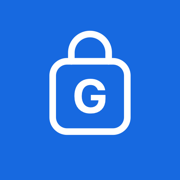
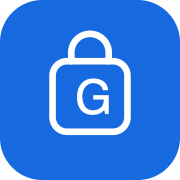
Add files via upload

diff --git a/index.html b/index.html
@@ -1,9 +1,9 @@
 <!doctype html>
-<html lang="de"><head><meta charset="utf-8"><meta http-equiv="Content-Security-Policy" content="default-src 'self'; script-src 'self'; style-src 'self' 'unsafe-inline'; connect-src 'self' https://ydmkutpcrurzsypszrob.supabase.co wss://ydmkutpcrurzsypszrob.supabase.co; img-src 'self' data:; object-src 'none'; base-uri 'self'; form-action 'self'; frame-src 'self'; worker-src 'self'"><meta name="referrer" content="no-referrer"><meta name="viewport" content="width=device-width,initial-scale=1,viewport-fit=cover"><meta name="theme-color" content="#1769e0"><meta name="description" content="Gemeinsame Einkaufslisten und Warenkatalog."><link rel="icon" href="icon.svg?v=28"><link rel="apple-touch-icon" href="icon-180.png?v=28"><link rel="manifest" href="manifest.webmanifest"><link rel="stylesheet" href="styles.css?v=28"><title>GrevingShop. – zusammen einkaufen</title></head>
+<html lang="de"><head><meta charset="utf-8"><meta http-equiv="Content-Security-Policy" content="default-src 'self'; script-src 'self'; style-src 'self' 'unsafe-inline'; connect-src 'self' https://ydmkutpcrurzsypszrob.supabase.co wss://ydmkutpcrurzsypszrob.supabase.co; img-src 'self' data:; object-src 'none'; base-uri 'self'; form-action 'self'; frame-src 'self'; worker-src 'self'"><meta name="referrer" content="no-referrer"><meta name="viewport" content="width=device-width,initial-scale=1,viewport-fit=cover"><meta name="theme-color" content="#1769e0"><meta name="description" content="Gemeinsame Einkaufslisten und Warenkatalog."><link rel="icon" href="icon.svg?v=30"><link rel="apple-touch-icon" href="icon-180.png?v=30"><link rel="manifest" href="manifest.webmanifest"><link rel="stylesheet" href="styles.css?v=30"><title>GrevingShop. – zusammen einkaufen</title></head>
 <body><div class="app-shell"><header class="topbar"><button class="menu-toggle" id="menuToggle" type="button" aria-label="Menü öffnen" aria-expanded="false" aria-controls="appMenu"><svg viewBox="0 0 24 24" aria-hidden="true"><path d="M4 6h16M4 12h16M4 18h16"/></svg></button><div class="brand"><button class="brand-mark" id="avatar" aria-label="Konto und Anmeldung">?</button><a class="brand-name" href="#">GrevingShop<span class="dot">.</span></a></div><button class="icon-button install-button" id="installApp" type="button" aria-label="App installieren" title="App installieren"><svg viewBox="0 0 24 24" aria-hidden="true"><path d="M12 3v12m-4-4 4 4 4-4M5 15v5h14v-5"/></svg></button><button class="icon-button update-button" id="updateApp" type="button" aria-label="Neue App-Version verfügbar" title="Neue App-Version verfügbar" hidden><svg viewBox="0 0 24 24" aria-hidden="true"><rect x="5" y="2" width="14" height="20" rx="3"/><path d="M9 18h6M16 9a4 4 0 1 0 0 4M16 6v3h-3"/></svg><span class="update-dot" aria-hidden="true"></span></button><button class="icon-button sync-btn" id="account" aria-label="Jetzt synchronisieren" title="Jetzt synchronisieren"><svg viewBox="0 0 24 24" aria-hidden="true"><path d="M20 11a8 8 0 0 0-14.9-3M4 5v3h3M4 13a8 8 0 0 0 14.9 3M20 19v-3h-3"/></svg><span id="cloud-check" hidden>✓</span></button></header><aside id="updateNotice" class="update-notice" aria-label="App-Aktualisierung" hidden><div><strong>Neue App-Version verfügbar</strong><p>Aktualisieren, wenn es für dich passt.</p></div><div class="update-actions"><button class="button" id="applyUpdate" type="button">Jetzt aktualisieren</button><button class="button secondary" id="deferUpdate" type="button">Später</button></div></aside><main id="app" tabindex="-1"></main><nav class="menu-panel" id="appMenu" aria-label="Hauptnavigation" hidden>
 <button data-view="lists" class="active" aria-current="page"><span class="menu-link-inner"><svg class="menu-icon shared-nav-icon" data-icon="lists" viewBox="0 0 24 24" aria-hidden="true"><path d="M9 6h11M9 12h11M9 18h11"/><circle cx="4" cy="6" r="1"/><circle cx="4" cy="12" r="1"/><circle cx="4" cy="18" r="1"/></svg><span>Meine Listen</span></span></button>
 <button data-view="archive"><span class="menu-link-inner"><svg viewBox="0 0 24 24" aria-hidden="true"><rect x="3" y="3" width="18" height="5" rx="1.5"/><path d="M5 8v12h14V8M9 12h6"/></svg><span>Archiv</span></span></button>
 <button data-view="catalog"><span class="menu-link-inner"><svg class="menu-icon shared-nav-icon" data-icon="catalog" viewBox="0 0 24 24" aria-hidden="true"><path d="M4 4h12a3 3 0 0 1 3 3v14H7a3 3 0 0 1-3-3V4Zm0 14a3 3 0 0 1 3-3h12M8 8h7M8 11h5"/></svg><span>Warenkatalog</span></span></button>
 <button data-view="family"><span class="menu-link-inner"><svg viewBox="0 0 24 24" aria-hidden="true"><circle cx="9" cy="8" r="3"/><path d="M3 21v-2a6 6 0 0 1 12 0v2M16 5a3 3 0 0 1 0 6M21 21v-2a6 6 0 0 0-4-5.65"/></svg><span>Familie</span></span></button>
 <button data-view="settings"><span class="menu-link-inner"><svg class="menu-icon shared-nav-icon" data-icon="settings" viewBox="0 0 24 24" aria-hidden="true"><path d="M3 5h3m6 0h9M3 12h10m6 0h2M3 19h3m6 0h9"/><circle cx="9" cy="5" r="3"/><circle cx="16" cy="12" r="3"/><circle cx="9" cy="19" r="3"/></svg><span>Settings</span></span></button>
-</nav></div><dialog id="modal"></dialog><div id="toast" role="status" aria-live="polite"></div><script src="supabase.js"></script><script src="auth-session.js?v=28"></script><script src="app.js?v=28"></script></body></html>
+</nav></div><dialog id="modal"></dialog><div id="toast" role="status" aria-live="polite"></div><script src="supabase.js"></script><script src="auth-session.js?v=28"></script><script src="app.js?v=30"></script></body></html>

diff --git a/app.js b/app.js
@@ -1,5 +1,5 @@
 'use strict';
-const APP_VERSION='28';
+const APP_VERSION='30';
 const FAMILY={};
 const catalogSelection=new Set();let catalogTarget='';
 let updateRegistration=null,updateWorker=null,availableVersion='',updateApplying=false,updateReloaded=false;
@@ -84,7 +84,7 @@ function shoppingDetail(){
 function detail(){
  const list=lists.find(l=>l.id===selected),all=items.filter(i=>i.list_id===selected),done=all.filter(i=>i.checked).length;
  const visible=all.filter(i=>(filter!=='open'||!i.checked)&&(filter!=='done'||i.checked)&&`${i.name} ${i.note}`.toLocaleLowerCase('de').includes(search.toLocaleLowerCase('de'))),open=visible.filter(i=>!i.checked),checked=visible.filter(i=>i.checked);
- return `<button class="back" data-action="back">← Listen</button><div class="heading list-heading"><h1>${esc(list.name)}</h1><button class="icon-button" data-action="edit-list" aria-label="Liste bearbeiten" title="Liste bearbeiten"><svg class="more-icon" viewBox="0 0 24 24" aria-hidden="true"><circle cx="5" cy="12" r="1.8"/><circle cx="12" cy="12" r="1.8"/><circle cx="19" cy="12" r="1.8"/></svg></button></div>${list.note?`<p class="muted small list-note">${esc(list.note)}</p>`:''}${listUpdated(list)}<div class="list-primary-actions"><button class="button add-product-main" data-action="new-item">＋ Produkt hinzufügen</button><button class="button secondary" data-action="shopping">Einkauf starten</button></div><div class="list-summary"><span>${done}/${all.length} besorgt</span></div><div class="progress"><span style="width:${all.length?done/all.length*100:0}%"></span></div><div class="tools compact-tools"><input id="search" class="search" type="search" placeholder="Produkte suchen …" aria-label="Produkte suchen" value="${esc(search)}"><select id="filter" aria-label="Produkte filtern"><option value="all" ${filter==='all'?'selected':''}>Alle</option><option value="open" ${filter==='open'?'selected':''}>Offen</option><option value="done" ${filter==='done'?'selected':''}>Besorgt</option></select></div>${cloudError?`<p class="error" role="alert">${esc(cloudError)}</p>`:''}<section class="card products-card">${groupedItems(open)}${!visible.length?`<div class="empty"><h2>${all.length?'Keine Treffer':'Was fehlt noch?'}</h2><p class="muted">${all.length?'Ändere die Suche oder den Filter.':'Füge das erste Produkt hinzu.'}</p>${!all.length?'<button class="button" data-action="new-item">＋ Produkt</button>':''}</div>`:''}${checked.length?`<details><summary>✓ Besorgt · ${checked.length}</summary>${checked.map(itemRow).join('')}</details>`:''}</section><div class="actions list-actions"><button class="button secondary" data-action="reset">Häkchen zurücksetzen</button><button class="button secondary" data-action="archive">${list.archived?'Wiederherstellen':'Archivieren'}</button></div><p class="status-line">${esc(status())}</p>`;
+ return `<button class="back" data-action="back">← Listen</button><div class="heading list-heading"><h1>${esc(list.name)}</h1><button class="icon-button" data-action="edit-list" aria-label="Liste bearbeiten" title="Liste bearbeiten"><svg class="more-icon" viewBox="0 0 24 24" aria-hidden="true"><circle cx="5" cy="12" r="1.8"/><circle cx="12" cy="12" r="1.8"/><circle cx="19" cy="12" r="1.8"/></svg></button></div>${list.note?`<p class="muted small list-note">${esc(list.note)}</p>`:''}${listUpdated(list)}<div class="list-primary-actions"><button class="button add-product-main" data-action="new-item">＋ Produkt hinzufügen</button><button class="button secondary" data-action="shopping">Einkauf starten</button></div><div class="list-summary"><span>${done}/${all.length} besorgt</span></div><div class="progress"><span style="width:${all.length?done/all.length*100:0}%"></span></div><div class="tools compact-tools"><input id="search" class="search" type="search" placeholder="Produkte suchen …" aria-label="Produkte suchen" value="${esc(search)}"><select id="filter" aria-label="Produkte filtern"><option value="all" ${filter==='all'?'selected':''}>Alle</option><option value="open" ${filter==='open'?'selected':''}>Offen</option><option value="done" ${filter==='done'?'selected':''}>Besorgt</option></select></div>${cloudError?`<p class="error" role="alert">${esc(cloudError)}</p>`:''}<section class="card products-card">${groupedItems(open)}${!visible.length?`<div class="empty"><h2>${all.length?'Keine Treffer':'Was fehlt noch?'}</h2><p class="muted">${all.length?'Ändere die Suche oder den Filter.':'Füge das erste Produkt hinzu.'}</p></div>`:''}${checked.length?`<details><summary>✓ Besorgt · ${checked.length}</summary>${checked.map(itemRow).join('')}</details>`:''}</section><div class="actions list-actions"><button class="button secondary" data-action="reset">Häkchen zurücksetzen</button><button class="button secondary" data-action="archive">${list.archived?'Wiederherstellen':'Archivieren'}</button></div><p class="status-line">${esc(status())}</p>`;
 }
 function dialog(title,body){$('#modal').innerHTML=`<div class="dialog-head"><h2>${title}</h2><button class="close" data-action="close" aria-label="Dialog schließen">×</button></div>${body}`;if(!$('#modal').open)$('#modal').showModal()}
 function errorMessage(e){if(e?.code==='PGRST205'||e?.code==='42P01')return 'Die Einkaufslisten-Tabellen sind noch nicht eingerichtet.';if(!navigator.onLine)return 'Du bist offline. Du kannst den gespeicherten Stand lesen. Änderungen sind wieder mit Internet möglich.';return e?.message||'Die Verbindung zu Supabase ist fehlgeschlagen.'}

diff --git a/s24fe.html b/s24fe.html
@@ -1,4 +1,4 @@
 <!doctype html>
 <html lang="de"><head><meta charset="utf-8"><meta name="viewport" content="width=device-width,initial-scale=1"><title>GrevingShop. · Galaxy S24 FE Vorschau</title><style>
 *{box-sizing:border-box}body{margin:0;background:#edf1f7;color:#142846;font:14px/1.5 system-ui,sans-serif;min-height:100dvh;display:flex;flex-direction:column;align-items:center;padding:24px 12px 30px}h1{font-size:20px;letter-spacing:-.5px;margin:0}p{margin:5px 0 16px;color:#536883;text-align:center;max-width:440px;font-size:12px}.phone{width:400px;height:848px;padding:8px;background:#20252b;border-radius:34px;box-shadow:0 20px 60px #14284625;flex-shrink:0}iframe{display:block;width:384px;height:832px;border:0;border-radius:26px;background:#f2f6ff}.foot{margin-top:18px}a{color:#126bff;font-weight:650}button{font:inherit;padding:9px 14px;border-radius:10px;border:1px solid #cad9f2;background:white;color:#142846;cursor:pointer}.controls{display:flex;gap:10px;margin-bottom:16px}@media(max-width:420px){body{padding:12px 0}.phone{width:100%;height:calc(100dvh - 180px);padding:0;border-radius:0;min-height:600px}iframe{width:100%;height:100%;border-radius:0}}
-</style></head><body><h1>GrevingShop. · Galaxy S24 FE</h1><p>Interaktive Vorschau mit 384 × 832 CSS-Pixeln.<br>Die tatsächliche Ansicht kann je nach Bildschirmzoom und Browserleisten abweichen.</p><div class="controls"><button id="home">Startseite</button><button id="reload">Neu laden</button><a href="./" target="_blank" rel="noopener">App öffnen ↗</a></div><div class="phone"><iframe id="phone" src="./?preview=28" title="GrevingShop. in der Galaxy-S24-FE-Vorschau" allow="screen-wake-lock"></iframe></div><p class="foot">Die echte App läuft innerhalb des Smartphone-Rahmens.<br>Du kannst sie hier bedienen und durch die Listen scrollen.</p><script>const phone=document.getElementById('phone');const reload=()=>{phone.src='./?preview=28&refresh='+Date.now()};document.getElementById('home').onclick=reload;document.getElementById('reload').onclick=reload;</script></body></html>
+</style></head><body><h1>GrevingShop. · Galaxy S24 FE</h1><p>Interaktive Vorschau mit 384 × 832 CSS-Pixeln.<br>Die tatsächliche Ansicht kann je nach Bildschirmzoom und Browserleisten abweichen.</p><div class="controls"><button id="home">Startseite</button><button id="reload">Neu laden</button><a href="./" target="_blank" rel="noopener">App öffnen ↗</a></div><div class="phone"><iframe id="phone" src="./?preview=30" title="GrevingShop. in der Galaxy-S24-FE-Vorschau" allow="screen-wake-lock"></iframe></div><p class="foot">Die echte App läuft innerhalb des Smartphone-Rahmens.<br>Du kannst sie hier bedienen und durch die Listen scrollen.</p><script>const phone=document.getElementById('phone');const reload=()=>{phone.src='./?preview=30&refresh='+Date.now()};document.getElementById('home').onclick=reload;document.getElementById('reload').onclick=reload;</script></body></html>

diff --git a/service-worker.js b/service-worker.js
@@ -1,7 +1,7 @@
-const VERSION='28';
-const CACHE='grevingshop-shell-v28';
+const VERSION='30';
+const CACHE='grevingshop-shell-v30';
 const CONTROL='grevingshop-update-control';
-const ASSETS=['./','./index.html','./styles.css?v=28','./app.js?v=28','./icon.svg?v=28','./icon-180.png?v=28','./icon-192.png?v=28','./icon-512.png?v=28','./manifest.webmanifest','./supabase.js','./auth-session.js?v=28'];
+const ASSETS=['./','./index.html','./styles.css?v=30','./app.js?v=30','./icon.svg?v=30','./icon-180.png?v=30','./icon-192.png?v=30','./icon-512.png?v=30','./manifest.webmanifest','./supabase.js','./auth-session.js?v=28'];
 const approvedKey=()=>new URL('./__approved_app_cache__',self.registration.scope).href;
 async function approvedCache(){const state=await caches.open(CONTROL),saved=await state.match(approvedKey());return saved?await saved.text():CACHE}
 async function setApproved(name){const state=await caches.open(CONTROL);await state.put(approvedKey(),new Response(name))}

diff --git a/README.md b/README.md
@@ -223,3 +223,7 @@ Version 27 (16.11.2026): Selbstregistrierung aus Startseite, Anmeldedialog, Sett
 Version 28: Die bestehende Supabase-Sitzung wird für 30 Tage seit der letzten Nutzung lokal aufbewahrt. Nutzung und Token-Erneuerung verlängern diese Frist. Bestehende Anmeldungen werden ohne erzwungenen Wechsel übernommen. Passwörter werden nicht gespeichert; kurze Zugangstokens werden weiterhin automatisch erneuert. Nach Standby und Verbindungswechsel wird die Sitzung erneut aus dem sicheren Auth-Ablauf aufgenommen. „Abmelden“ beendet nur die aktuelle App-Sitzung, nicht die anderen Apps oder Geräte.
 
 Eine serverseitig widerrufene Sitzung, gelöschte Browserdaten oder ein kürzeres Supabase-Limit können eine frühere Neuanmeldung erfordern. Im gemeinsamen Supabase-Projekt unter Authentication → Sessions dürfen Time-box und Inactivity timeout nicht kürzer als 30 Tage sein; Single session per user muss für parallele Apps/Geräte ausgeschaltet sein. Diese Serverwerte wurden nicht geändert oder überprüft. Keine 30-Tage-Verlängerung der JWT-Laufzeit vornehmen.
+
+Version 29 (18.11.2026): Doppelten „+ Produkt“-Button im Leerzustand einer Liste entfernt. Die Hauptaktion „Produkt hinzufügen“ oberhalb der Liste bleibt erhalten.
+
+Version 30 (18.11.2026): App-Icon mit exakt derselben Außenform wie GrevingFit: 512 × 512, Eckenradius 120. Motiv und Blau unverändert; Icon-Adressen versioniert.

diff --git a/PRUEFBERICHT.md b/PRUEFBERICHT.md
@@ -120,3 +120,7 @@ Version 28: Die bestehende Supabase-Sitzung wird für 30 Tage seit der letzten N
 Eine serverseitig widerrufene Sitzung, gelöschte Browserdaten oder ein kürzeres Supabase-Limit können eine frühere Neuanmeldung erfordern. Im gemeinsamen Supabase-Projekt unter Authentication → Sessions dürfen Time-box und Inactivity timeout nicht kürzer als 30 Tage sein; Single session per user muss für parallele Apps/Geräte ausgeschaltet sein. Diese Serverwerte wurden nicht geändert oder überprüft. Keine 30-Tage-Verlängerung der JWT-Laufzeit vornehmen.
 
 Sitzungsprüfung Version 28: 40 Tests bestanden, einschließlich 30-Tage-Frist mit simuliertem Zeitablauf, Bestandsmigration, Token-Rotation, lokalem Logout und Wiederaufnahme nach Netzfehler in beiden Apps. Kein realer 30-Tage-Dauertest; Serverlimits nicht geprüft. GrevingFit v79 separat paketiert.
+
+Version 29 (18.11.2026): Doppelten „+ Produkt“-Button im Leerzustand einer Liste entfernt. Die Hauptaktion „Produkt hinzufügen“ oberhalb der Liste bleibt erhalten.
+
+Version 30 (18.11.2026): App-Icon mit exakt derselben Außenform wie GrevingFit: 512 × 512, Eckenradius 120. Motiv und Blau unverändert; Icon-Adressen versioniert.
